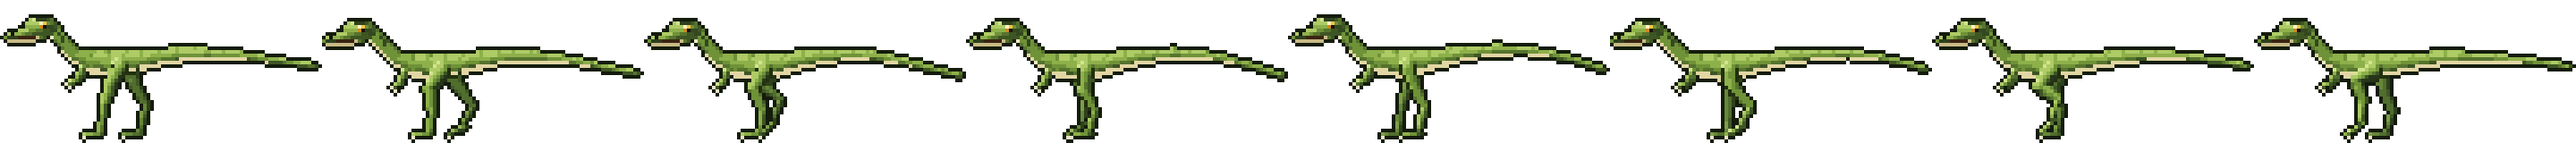
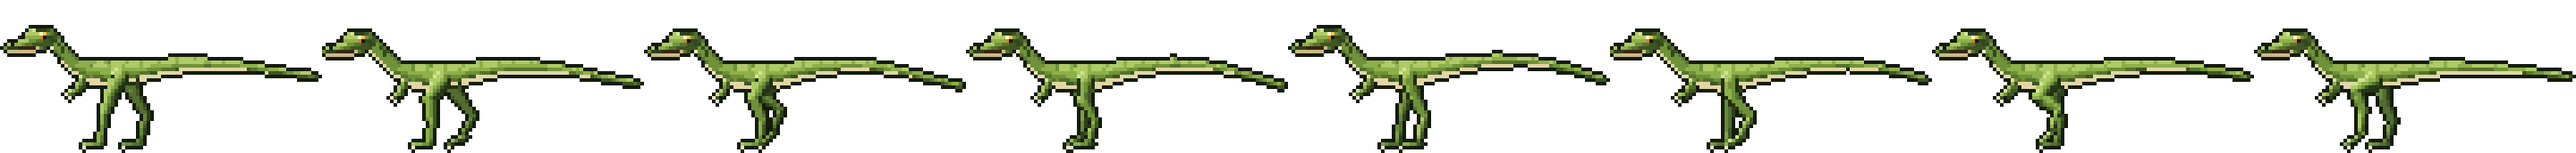
Compsognathus : transition quand il se tourne vers le joueur (et quand il se remet de profil), planches au même format pour qu'il ne saute plus, il garde son sens en regardant ; aussi dans le Pomodoro

diff --git a/js/05-data-dinopark.js b/js/05-data-dinopark.js
@@ -1346,13 +1346,16 @@
     return "assets/dinotime/enclos_" + (DP_DINOTIME_ZONE_FOLDER[zoneId] || zoneId) + "_level" + level + ".png";
   }
   // ---- Dinos animés : planches d'images côte à côte (w × h = une image, ms = durée d'une image).
+  // Toutes les planches d'un dino ont le même format, pieds au même endroit : pas de saut entre deux.
+  // « tourne » : il tourne la tête et le corps vers le joueur (jouée à l'envers quand il repart).
   // « marche » : stride = distance parcourue par un cycle de pas, en pixels de l'image, pour caler
   // les pattes sur la vitesse réelle (pas de glissade).
   var DP_ANIM = {
     compsognathus: {
-      marche: { file: "Compsognathus_marche.png", n: 8, w: 90, h: 40, ms: 95, stride: 16.4 },
-      repos: { file: "Compsognathus_repos.png", n: 12, w: 90, h: 40, ms: 170 },
-      regard: { file: "Compsognathus_regard.png", n: 12, w: 56, h: 43, ms: 170 }
+      marche: { file: "Compsognathus_marche.png", n: 8, w: 90, h: 43, ms: 95, stride: 16.4 },
+      repos: { file: "Compsognathus_repos.png", n: 12, w: 90, h: 43, ms: 170 },
+      tourne: { file: "Compsognathus_tourne.png", n: 4, w: 90, h: 43, ms: 110 },
+      regard: { file: "Compsognathus_regard.png", n: 12, w: 90, h: 43, ms: 170 }
     }
   };
   function dpAnim(speciesId, kind) {
@@ -1369,7 +1372,15 @@
     el.style.aspectRatio = a.w + "/" + a.h;
     el.style.setProperty("--n", a.n);
     el.style.setProperty("--dur", Math.round(durMs || a.n * a.ms) + "ms");
+    if (el._animNext) { clearTimeout(el._animNext); el._animNext = null; }
+    el.classList.remove("dt-once", "dt-rev");
     el.style.animation = "none"; void el.offsetWidth; el.style.animation = "";   // repart de la première image
+  }
+  // joue une planche une seule fois (à l'endroit ou à l'envers), puis enchaîne sur la suivante
+  function dpPlayOnce(el, a, reverse, next) {
+    dpApplyAnim(el, a);
+    el.classList.add("dt-once"); if (reverse) el.classList.add("dt-rev");
+    el._animNext = setTimeout(function () { el._animNext = null; if (el.isConnected) next(); }, a.n * a.ms);
   }
 
   // ---- Décor vivant de l'enclos : 3 positions de vent pour les arbres, nuages qui dérivent,
@@ -1614,6 +1625,7 @@
     var elapsedFrac = workTotal > 0 ? Math.min(1, Math.max(0, 1 - p.remainingSec / workTotal)) : 0;
     return segStart + elapsedFrac * (segEnd - segStart);
   }
+  var dtPomoLastLooking = null;   // phase affichée au dernier rendu (pour jouer la transition une seule fois)
   function renderPomodoroRunning() {
     var p = dtPomoRunning;
     var dino = p.dinoId ? dpData().dinosaurs.find(function (d) { return d.id === p.dinoId; }) : null;
@@ -1624,7 +1636,7 @@
     var dinoHtml, pomoAnim = sp ? dpAnim(sp.id, looking ? "regard" : "marche") : null;
     if (pomoAnim) {
       // dino animé : il marche pendant le travail, il te regarde et respire pendant la pause
-      dinoHtml = '<div class="dt-pomo-dino dt-anim" style="height:' + Math.round(DT_POMO_DINO_BASE_HEIGHT * pomoScale) + 'px;' + dpAnimStyle(pomoAnim, looking ? null : pomoAnim.n * pomoAnim.ms * 2) + '"></div>';
+      dinoHtml = '<div class="dt-pomo-dino dt-anim" id="dt-pomo-dino" style="height:' + Math.round(DT_POMO_DINO_BASE_HEIGHT * pomoScale) + 'px;' + dpAnimStyle(pomoAnim, looking ? null : pomoAnim.n * pomoAnim.ms * 2) + '"></div>';
     } else if (artPath) {
       dinoHtml = '<img class="dt-pomo-dino' + (looking ? " sprite-bob" : "") + '" src="' + artPath + '" alt="" style="height:' + Math.round(DT_POMO_DINO_BASE_HEIGHT * pomoScale) + 'px" onerror="this.style.display=\'none\'">';
     } else if (sp) {
@@ -1634,7 +1646,8 @@
     }
     // Les sprites "profil" regardent nativement vers la gauche, on les retourne pour qu'ils avancent
     // visuellement vers la droite (sens de la piste) ; on les remet à l'endroit pour le "face" au checkpoint.
-    dinoHtml = '<span class="dt-pomo-flip' + (looking ? "" : " reversed") + '">' + dinoHtml + '</span>';
+    // un dino animé reste dans le sens de la marche : il se tourne vers toi au lieu d'être retourné d'un coup
+    dinoHtml = '<span class="dt-pomo-flip' + (looking && !pomoAnim ? "" : " reversed") + '">' + dinoHtml + '</span>';
     var checkpoints = "";
     for (var i = 0; i <= p.cycles; i++) checkpoints += '<span class="dt-pomo-checkpoint" style="left:' + (i / p.cycles * 100) + '%"></span>';
     var cycleHtml = '<div class="dt-pomo-cycle mono">Cycle ' + p.cycleIndex + ' / ' + p.cycles + '</div>';
@@ -1652,6 +1665,10 @@
       '</div>';
     document.getElementById("app").innerHTML = html;
     dtEnsureTimerInterval();
+    // changement de phase : il se tourne vers toi (pause) ou se remet de profil (travail) avant d'enchaîner
+    var pomoEl = document.getElementById("dt-pomo-dino"), pomoTurn = pomoAnim ? dpAnim(sp.id, "tourne") : null;
+    if (pomoEl && pomoTurn && dtPomoLastLooking !== null && dtPomoLastLooking !== looking) dpPlayOnce(pomoEl, pomoTurn, !looking, function () { dpApplyAnim(pomoEl, pomoAnim, looking ? null : pomoAnim.n * pomoAnim.ms * 2); });
+    dtPomoLastLooking = looking;
   }
 
   // Le décompte tourne en continu (indépendant de la page affichée) tant qu'une séance existe —
@@ -1709,13 +1726,17 @@
           if (ds.x > DT_MAX_X) { ds.x = DT_MAX_X; ds.dir = -1; }
           wrap.style.left = ds.x + "%";
         }
-        wrap.style.transform = "translateX(-50%) " + (ds.mode === "look" ? "scaleX(1)" : (ds.dir > 0 ? "scaleX(-1)" : "scaleX(1)"));
+        // un dino animé garde son sens quand il te regarde (il tourne juste la tête et le corps vers toi)
+        wrap.style.transform = "translateX(-50%) " + (ds.mode === "look" && !ds.anim ? "scaleX(1)" : (ds.dir > 0 ? "scaleX(-1)" : "scaleX(1)"));
         if (ds.mode !== ds.lastMode) {
           if (ds.anim) {
             // marche : la durée d'un cycle de pas est calée sur la vitesse, pour que les pieds ne glissent pas
             var a = dpAnim(ds.speciesId, ds.mode === "walk" ? "marche" : ds.mode === "look" ? "regard" : "repos");
             var cycleMs = ds.mode === "walk" && a.stride ? a.stride * (ds.heightPx / a.h) / (ds.speed * window.innerWidth / 100) : null;
-            dpApplyAnim(img, a, cycleMs ? Math.max(450, Math.min(2400, cycleMs)) : null);
+            var turn = dpAnim(ds.speciesId, "tourne"), el0 = img;
+            if (turn && ds.mode === "look") dpPlayOnce(img, turn, false, function () { dpApplyAnim(el0, a); });          // il se tourne vers toi
+            else if (turn && ds.lastMode === "look") dpPlayOnce(img, turn, true, function () { dpApplyAnim(el0, a, cycleMs ? Math.max(450, Math.min(2400, cycleMs)) : null); });   // il se remet de profil
+            else dpApplyAnim(img, a, cycleMs ? Math.max(450, Math.min(2400, cycleMs)) : null);
           } else img.classList.toggle("dt-dino-walking", ds.mode === "walk");
           if (ds.hasArt && !ds.anim) img.src = dpArtPath(ds.speciesId, ds.mode === "look" ? "face" : "profil");
           ds.lastMode = ds.mode;

diff --git a/index.html b/index.html
@@ -15,7 +15,7 @@
 <link rel="preconnect" href="https://fonts.googleapis.com">
 <link rel="preconnect" href="https://fonts.gstatic.com" crossorigin>
 <link href="https://fonts.googleapis.com/css2?family=Press+Start+2P&family=Public+Sans:wght@400;500;600;700;800&display=swap" rel="stylesheet">
-<link rel="stylesheet" href="style.css?v=81">
+<link rel="stylesheet" href="style.css?v=82">
 <link rel="stylesheet" href="https://cdn.jsdelivr.net/npm/katex@0.16.11/dist/katex.min.css">
 <script src="https://cdn.jsdelivr.net/npm/katex@0.16.11/dist/katex.min.js"></script>
 <script src="https://cdn.jsdelivr.net/npm/katex@0.16.11/dist/contrib/auto-render.min.js"></script>
@@ -44,16 +44,16 @@
 </div>
 <div id="app"></div>
 <div class="toast-stack" id="toastStack"></div>
-<script src="js/01-core.js?v=184"></script>
-<script src="js/02-ia.js?v=184"></script>
-<script src="js/03-podcast-methodo.js?v=184"></script>
-<script src="js/04-prepa.js?v=184"></script>
-<script src="js/05-data-dinopark.js?v=184"></script>
-<script src="js/06-pages.js?v=184"></script>
-<script src="js/07-editeur-outils.js?v=184"></script>
-<script src="js/08-fenetres.js?v=184"></script>
-<script src="js/09-app.js?v=184"></script>
-<script src="js/10-calendrier-aujourdhui.js?v=184"></script>
-<script src="js/11-routeur-demarrage.js?v=184"></script>
+<script src="js/01-core.js?v=185"></script>
+<script src="js/02-ia.js?v=185"></script>
+<script src="js/03-podcast-methodo.js?v=185"></script>
+<script src="js/04-prepa.js?v=185"></script>
+<script src="js/05-data-dinopark.js?v=185"></script>
+<script src="js/06-pages.js?v=185"></script>
+<script src="js/07-editeur-outils.js?v=185"></script>
+<script src="js/08-fenetres.js?v=185"></script>
+<script src="js/09-app.js?v=185"></script>
+<script src="js/10-calendrier-aujourdhui.js?v=185"></script>
+<script src="js/11-routeur-demarrage.js?v=185"></script>
 </body>
 </html>

diff --git a/style.css b/style.css
@@ -879,6 +879,13 @@
   .dt-dino-wrap .dt-anim { height: 100%; width: auto; filter: drop-shadow(0 8px 6px rgba(0,0,0,0.35)); }
   @keyframes dtSheet { from { background-position: 0 0; } to { background-position: calc(100% * var(--n) / (var(--n) - 1)) 0; } }
   .dt-scene.paused .dt-anim { animation-play-state: paused; }
+  /* une seule fois (transition « il se tourne vers toi »), à l'endroit ou à l'envers ; s'arrête sur la dernière image */
+  .dt-anim.dt-once { animation: dtSheetOnce var(--dur) steps(var(--n), jump-none) 1 forwards; }
+  .dt-anim.dt-once.dt-rev { animation-name: dtSheetOnceRev; }
+  @keyframes dtSheetOnce { from { background-position: 0 0; } to { background-position: 100% 0; } }
+  @keyframes dtSheetOnceRev { from { background-position: 100% 0; } to { background-position: 0 0; } }
+  .dt-pomo-runner.working .dt-pomo-dino.dt-anim.dt-once { animation: dtSheetOnce var(--dur) steps(var(--n), jump-none) 1 forwards; }
+  .dt-pomo-runner.working .dt-pomo-dino.dt-anim.dt-once.dt-rev { animation-name: dtSheetOnceRev; }
   .dt-pomo-runner.working .dt-pomo-dino.dt-anim { animation: dtSheet var(--dur) steps(var(--n)) infinite; }
   .dt-pomo-scene.paused .dt-pomo-dino.dt-anim { animation-play-state: paused; }
   /* Décor vivant : calé sur le terrain (même cadrage « cover » 16:9), sous les dinos et les boutons */

diff --git a/js/01-core.js b/js/01-core.js
@@ -2,7 +2,7 @@
 // Studino — stockage, images, audio, schémas
 // Fichier chargé dans l'ordre par index.html : les fichiers partagent les mêmes variables globales.
 
-  var APP_VERSION = "15.2"; // +0.1 à chaque push sur GitHub, pour que l'utilisateur puisse vérifier qu'il a bien la dernière version
+  var APP_VERSION = "15.3"; // +0.1 à chaque push sur GitHub, pour que l'utilisateur puisse vérifier qu'il a bien la dernière version
   // Installation sur l'écran d'accueil : Chrome/Edge/Android proposent l'installation par un événement
   // qu'on garde pour le bouton des paramètres ; l'iPhone n'en a pas, on explique la marche à suivre.
   var installPromptEvent = null;

diff --git a/sw.js b/sw.js
@@ -2,7 +2,7 @@
 // Pages, scripts et styles : toujours la version en ligne d'abord (pour avoir les mises à jour),
 // la copie gardée seulement si le réseau ne répond pas. Images et sons : la copie gardée d'abord.
 // Les autres sites (IA Gemini, bibliothèques) ne passent pas par ici.
-var CACHE = "studino-v18"; // à changer quand les images changent : les anciennes copies en cache sont supprimées
+var CACHE = "studino-v19"; // à changer quand les images changent : les anciennes copies en cache sont supprimées
 
 self.addEventListener("install", function () { self.skipWaiting(); });
 self.addEventListener("activate", function (e) {
